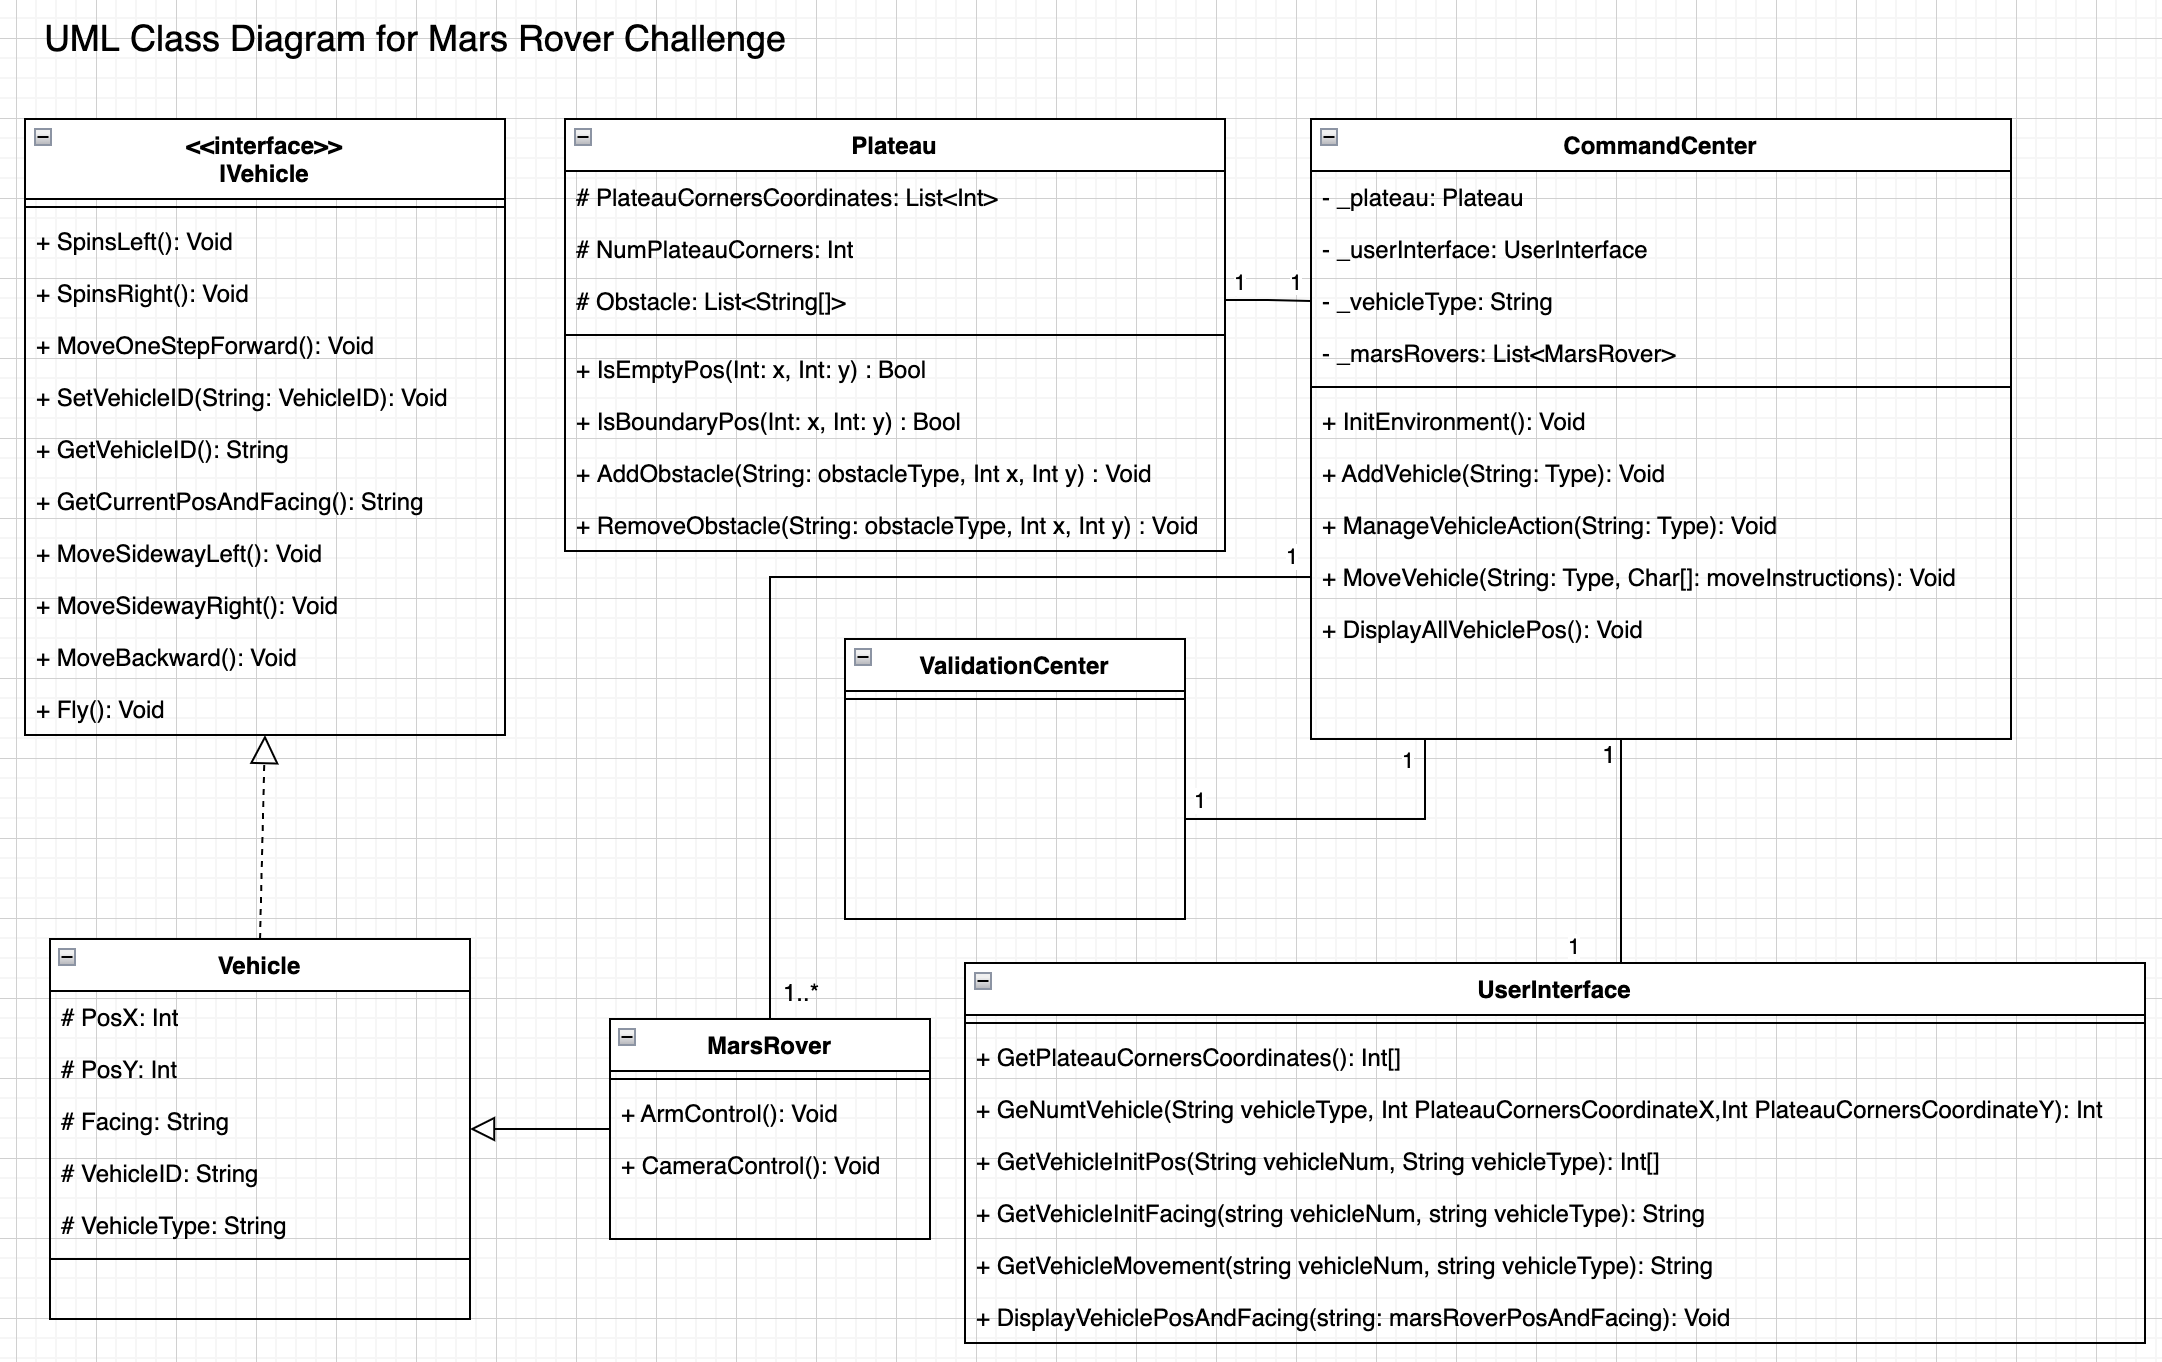
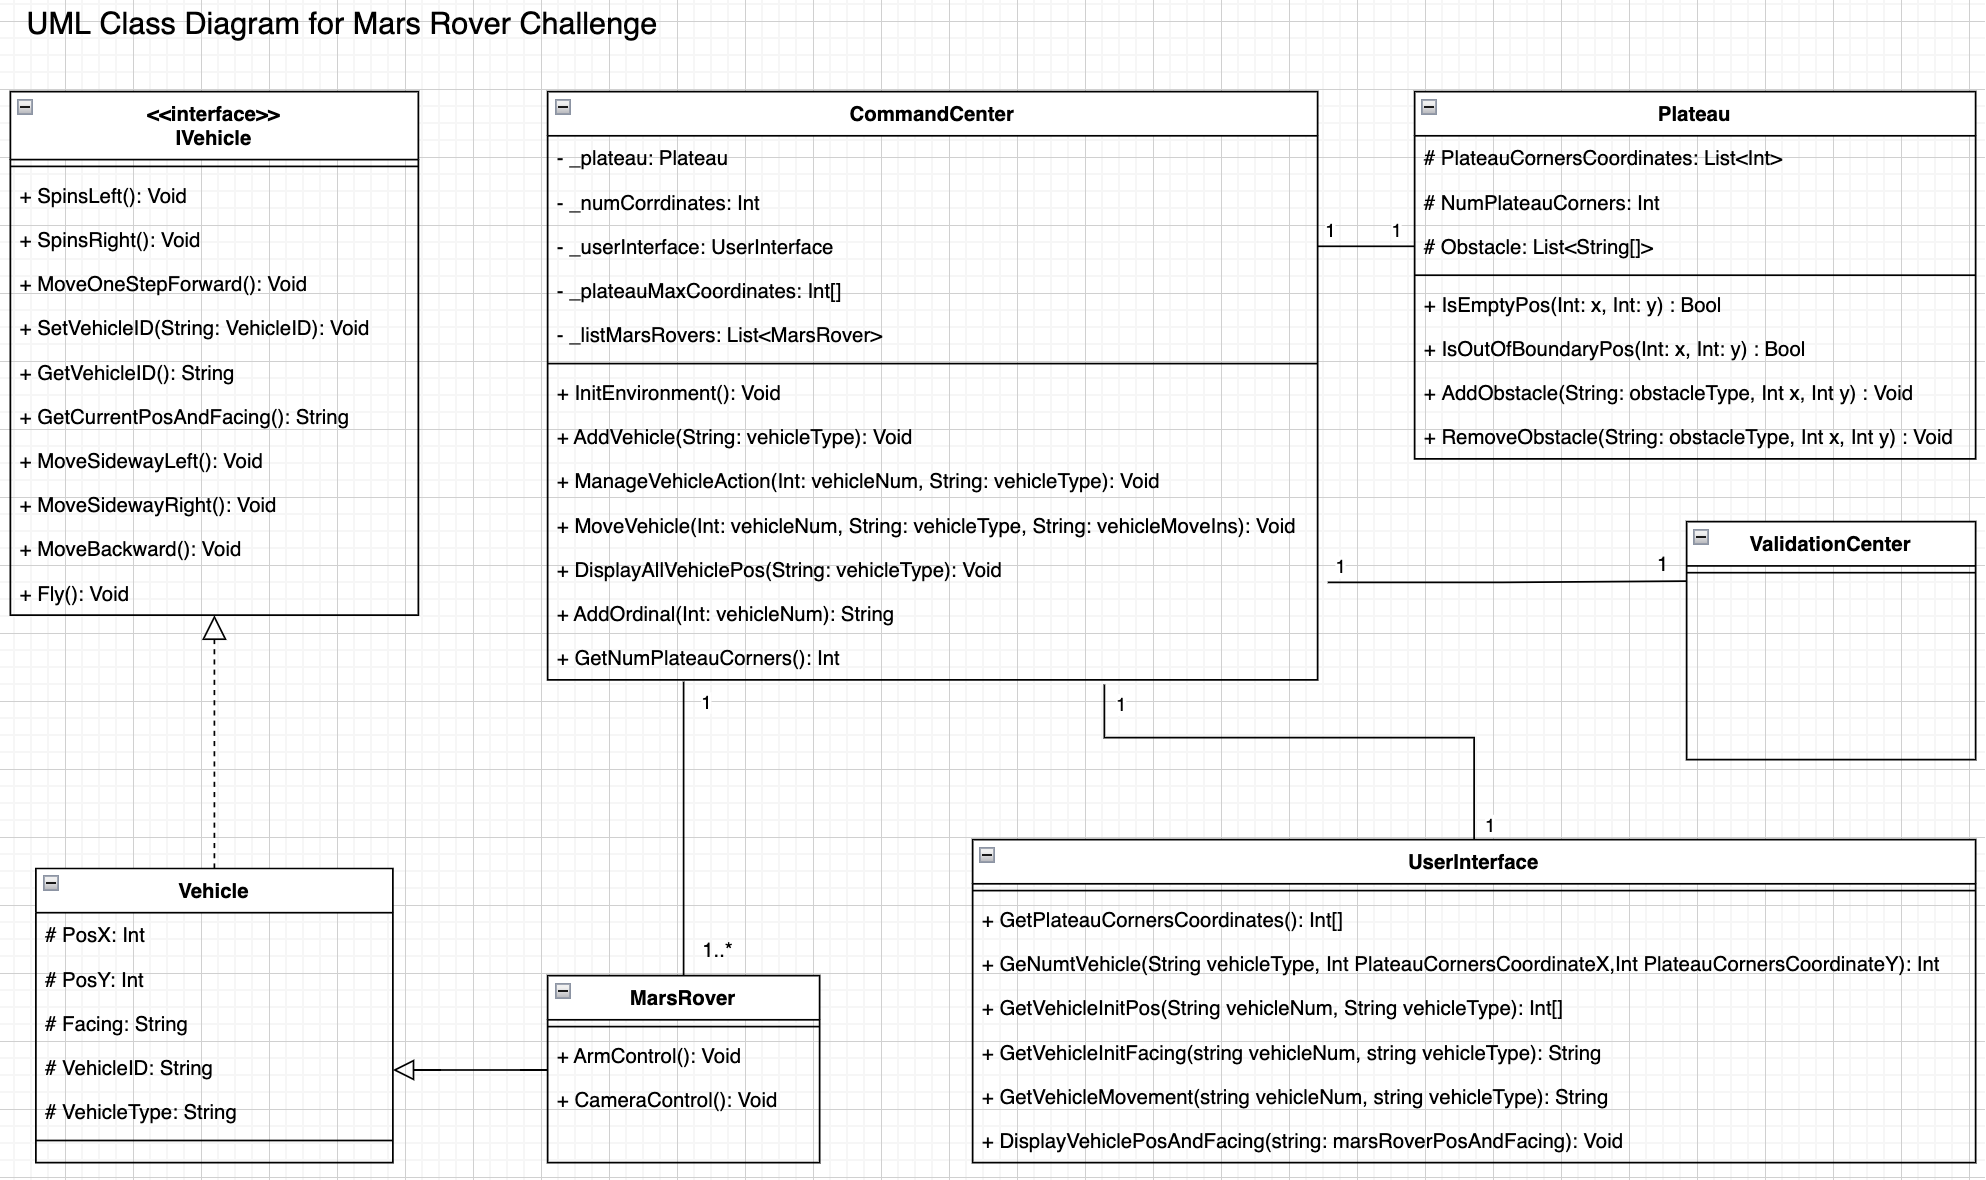
Refactored CommandCenter and updated class diagram

diff --git a/ExplorerService.Tests/CommandCenterTest.cs b/ExplorerService.Tests/CommandCenterTest.cs
@@ -11,7 +11,7 @@ public class CommandCenterTests
     {
         _commandCenter = new CommandCenter();
         //Can't test after changing ListMarsRovers to private in CommandCenter.cs
-        //_commandCenter.ListMarsRovers.Add(new MarsRover(3, 4, "N", $"MR0", "Mars Rover"));
+        //_commandCenter._listMarsRovers.Add(new MarsRover(3, 4, "N", $"MR0", "Mars Rover"));
     }
 
     [Test]
@@ -22,19 +22,19 @@ public class CommandCenterTests
         _commandCenter.GetNumPlateauCorners().Should().Be(4);
     }
 
-/*
-    [Test]
-    public void Calling_MoveVehicle_Given_Instruction_L_Should_Spins_The_Vehicle_Left()
-    {
-        _commandCenter.MoveVehicle(0, "Mars Rover", "L");
-        _commandCenter.ListMarsRovers[0].GetCurrentPosAndFacing().Should().Be("3 4 W");
-    }
+    /*
+        [Test]
+        public void Calling_MoveVehicle_Given_Instruction_L_Should_Spins_The_Vehicle_Left()
+        {
+            _commandCenter.MoveVehicle(0, "Mars Rover", "L");
+            _commandCenter._listMarsRovers[0].GetCurrentPosAndFacing().Should().Be("3 4 W");
+        }
 
-    [Test]
-    public void Calling_MoveVehicle_Given_Instruction_R_Should_Spins_The_Vehicle_Right()
-    {
-        _commandCenter.MoveVehicle(0, "Mars Rover", "R");
-        _commandCenter.ListMarsRovers[0].GetCurrentPosAndFacing().Should().Be("3 4 E");
-    }
-*/
+        [Test]
+        public void Calling_MoveVehicle_Given_Instruction_R_Should_Spins_The_Vehicle_Right()
+        {
+            _commandCenter.MoveVehicle(0, "Mars Rover", "R");
+            _commandCenter._listMarsRovers[0].GetCurrentPosAndFacing().Should().Be("3 4 E");
+        }
+    */
 }

diff --git a/ExplorerService/CommandCenter.cs b/ExplorerService/CommandCenter.cs
@@ -5,24 +5,20 @@ namespace ExplorerService
 {
     public class CommandCenter
     {
-        const int numCorrdinates = 2;
-        protected Plateau _plateau;
+        private Plateau _plateau;
+        private const int _numCorrdinates = 2;
         private UserInterface _userInterface = new UserInterface();
-
-        private int[] _plateauMaxCoordinates = new int[numCorrdinates];
+        private int[] _plateauMaxCoordinates = new int[_numCorrdinates];
         private List<MarsRover> ListMarsRovers = new List<MarsRover>();
 
         public void InitEnvironment()
         {
-            int numCoordinates = 2;
-
             _plateauMaxCoordinates = _userInterface.GetPlateauCornersCoordinates();
             List<int> plateauCorners = new List<int> { 0, 0, _plateauMaxCoordinates[0], 0, _plateauMaxCoordinates[0], _plateauMaxCoordinates[1], 0, _plateauMaxCoordinates[1] };
-            int numPlateauCorners = plateauCorners.Count() / numCoordinates;
+            int numPlateauCorners = plateauCorners.Count() / _numCorrdinates;
 
             _plateau = new Plateau(numPlateauCorners, plateauCorners);
         }
-
 
         public void AddVehicle(string vehicleType)
         {
